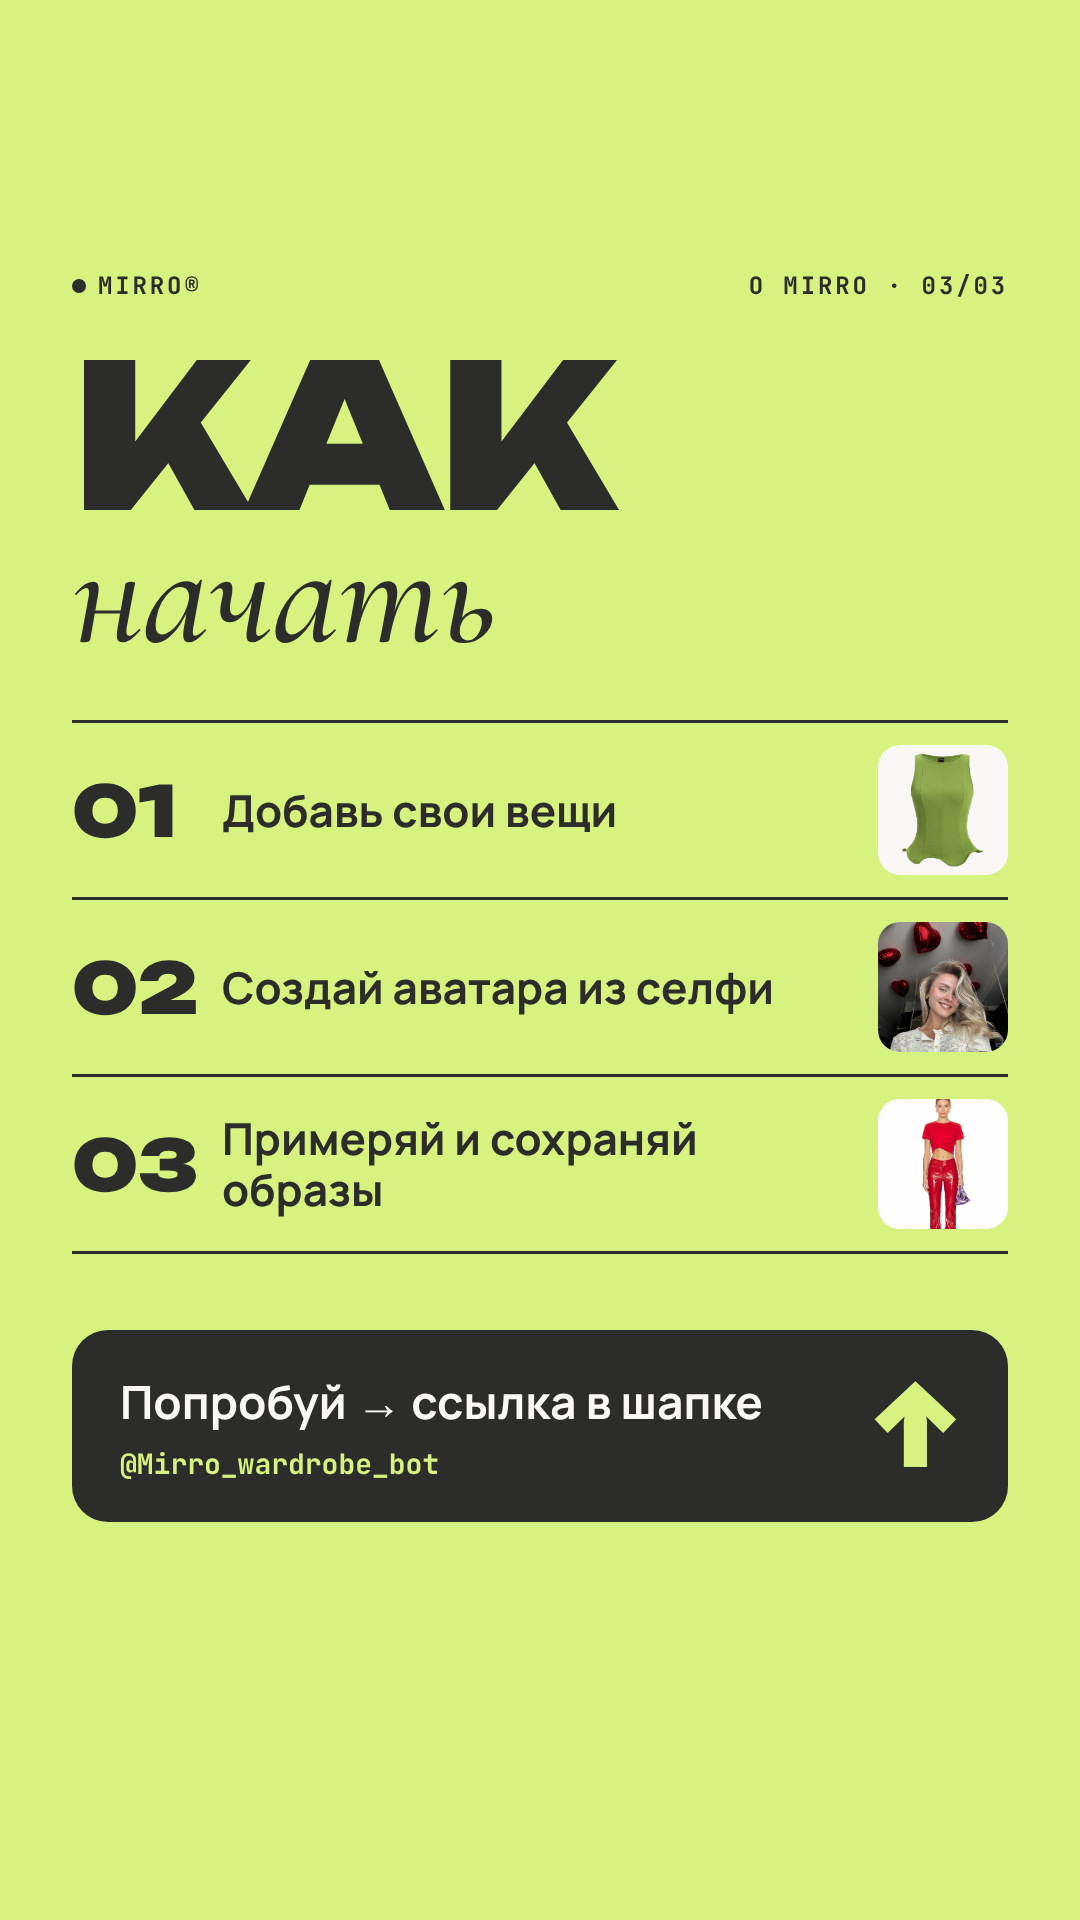
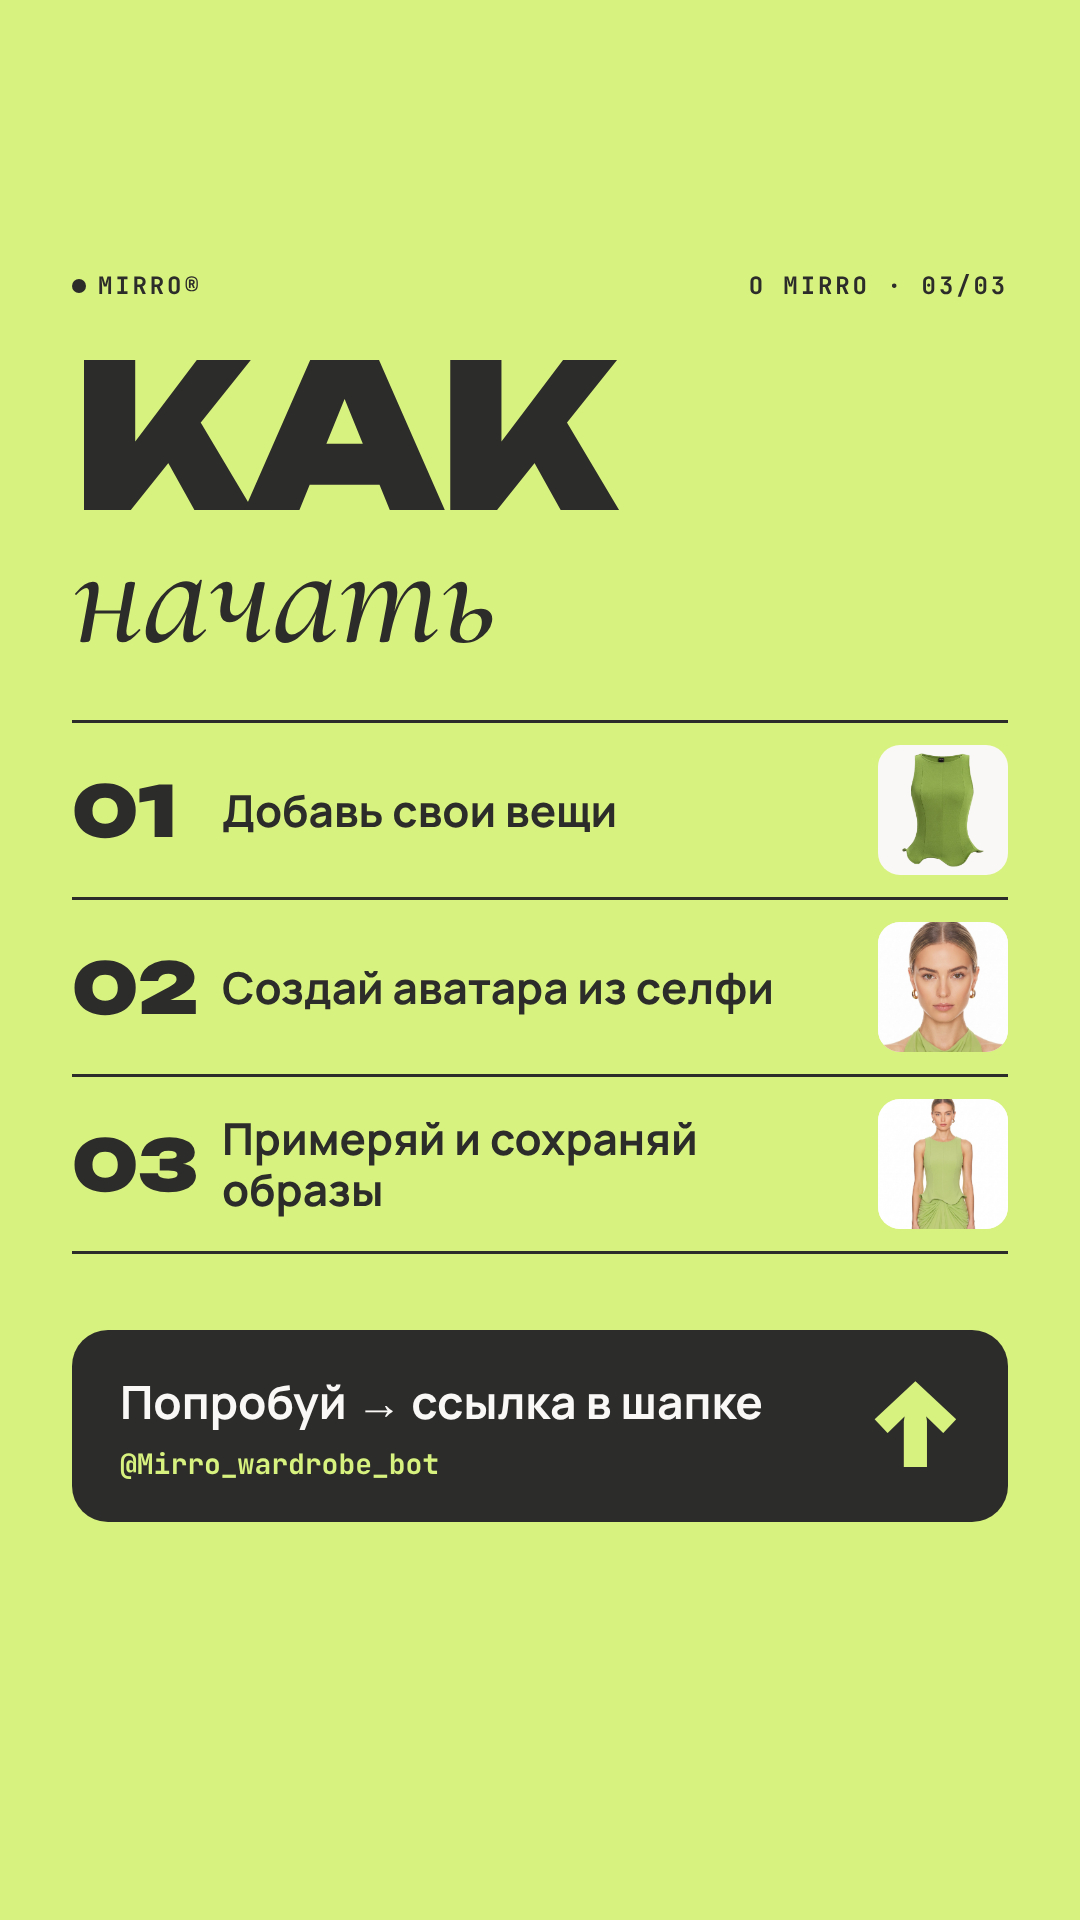
«О MIRRO»: без сердечка, открыто лицо, новые фото в шагах
Claude-Session: https://claude.ai/code/session_01V1NUh11xrVMcB1cs4GV2qz

Changed region(s): [[0.7944, 0.4688, 0.9472, 0.6562]]

diff --git a/carousels/stories-about/02.html b/carousels/stories-about/02.html
@@ -10,12 +10,12 @@
     .q .serif { font-size: 104px; line-height: .98; }
     .q .display { font-size: 124px; margin-top: 18px; white-space: nowrap; }
     .answer { top: 820px; }
-    .before { left: 72px; top: 1040px; width: 936px; height: 300px; }
+    .before { left: 72px; top: 1030px; width: 936px; height: 270px; }
     .before img { filter: grayscale(1); object-position: 50% 65%; }
-    .looks { position: absolute; left: 72px; right: 72px; top: 1370px; display: flex; gap: 18px; z-index: 3; }
-    .look { flex: 1; height: 250px; border-radius: 24px; overflow: hidden; background: #fff; outline: 5px solid var(--lime); outline-offset: -5px; }
+    .looks { position: absolute; left: 72px; right: 72px; top: 1410px; display: flex; gap: 18px; z-index: 3; }
+    .look { flex: 1; height: 230px; border-radius: 24px; overflow: hidden; background: #fff; outline: 5px solid var(--lime); outline-offset: -5px; }
     .look img { width: 100%; height: 100%; object-fit: cover; object-position: 50% 0; display: block; }
-    .arrow { position: absolute; left: 490px; top: 1300px; z-index: 6; width: 100px; height: 100px; border-radius: 50%; background: var(--lime); display: flex; align-items: center; justify-content: center; font-family: var(--font-display); font-weight: 900; font-size: 44px; box-shadow: 0 0 0 10px var(--cream); }
+    .arrow { position: absolute; left: 490px; top: 1306px; z-index: 6; width: 100px; height: 100px; border-radius: 50%; background: var(--lime); display: flex; align-items: center; justify-content: center; font-family: var(--font-display); font-weight: 900; font-size: 44px; box-shadow: 0 0 0 10px var(--cream); }
   </style>
 </head>
 <body data-size="1080x1920">
@@ -27,14 +27,14 @@
     </div>
     <p class="answer">MIRRO показывает все твои вещи и помогает собрать образ за минуты.</p>
     <div class="card before"><img src="../03-why-convenient/img/closet-mess.jpg" alt=""></div>
-    <span class="chip" style="left: 96px; top: 1064px;">Было</span>
+    <span class="chip" style="left: 96px; top: 1054px;">Было</span>
     <div class="arrow">↓</div>
     <div class="looks">
       <div class="look"><img src="../03-why-convenient/img/look-green.jpg" alt=""></div>
       <div class="look"><img src="../03-why-convenient/img/look-red.jpg" alt=""></div>
       <div class="look"><img src="../03-why-convenient/img/look-leather.jpg" alt=""></div>
     </div>
-    <span class="chip lime" style="left: 96px; top: 1586px;">✓ Стало · 3 образа</span>
+    <span class="chip lime" style="left: 96px; top: 1584px;">✓ Стало · 3 образа</span>
   </div>
 </body>
 </html>

diff --git a/carousels/stories-about/03.html b/carousels/stories-about/03.html
@@ -32,8 +32,8 @@
     </div>
     <div class="steps">
       <div class="step"><span class="n">01</span><p>Добавь свои вещи</p><div class="th"><img src="../03-why-convenient/img/item-top-green.png" alt=""></div></div>
-      <div class="step"><span class="n">02</span><p>Создай аватара из селфи</p><div class="th"><img class="cover" src="../01-how-it-works/img/selfie.jpg" alt=""></div></div>
-      <div class="step"><span class="n">03</span><p>Примеряй и сохраняй образы</p><div class="th"><img class="cover" src="../03-why-convenient/img/look-red.jpg" alt=""></div></div>
+      <div class="step"><span class="n">02</span><p>Создай аватара из селфи</p><div class="th"><img class="cover" src="img/portrait.jpg" alt=""></div></div>
+      <div class="step"><span class="n">03</span><p>Примеряй и сохраняй образы</p><div class="th"><img class="cover" src="img/look-green-top.jpg" alt=""></div></div>
     </div>
     <div class="cta">
       <div><p>Попробуй → ссылка в шапке</p><div class="bot">@Mirro_wardrobe_bot</div></div>

diff --git a/carousels/stories-about/01.html b/carousels/stories-about/01.html
@@ -19,7 +19,7 @@
   <div class="story">
     <div class="label"><span><i class="dot"></i>MIRRO®</span><span>О MIRRO · 01/03</span></div>
     <div class="q">
-      <div class="display">MIRRO<small>🤍</small></div>
+      <div class="display">MIRRO</div>
       <div class="serif italic">твой гардероб —<br>в телефоне</div>
     </div>
     <p class="answer">Собирай образы, примеряй на себе, планируй — не открывая шкаф.</p>
